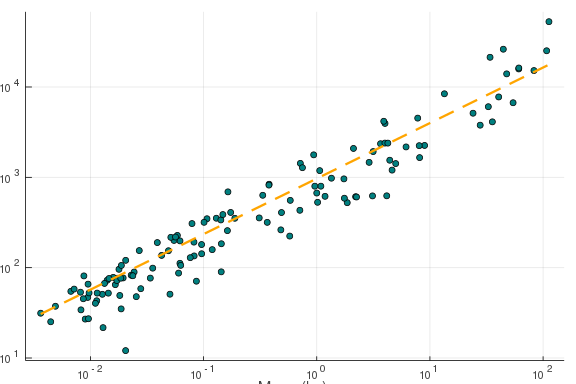
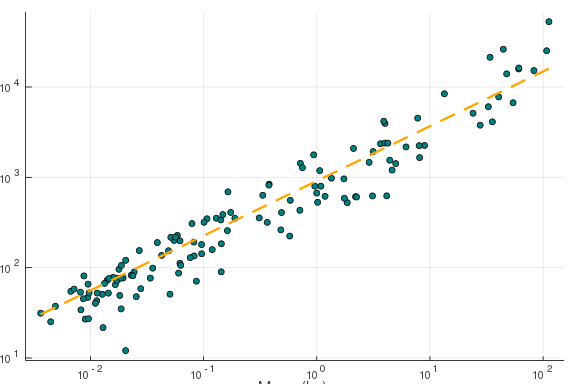
deploy: d7ab3d4cb15ef7e4fce33257fe261094bbebe992

diff --git a/capstones/genetic_algorithm/index.html b/capstones/genetic_algorithm/index.html
@@ -142,7 +142,7 @@ existing object.</p><div class=highlight><pre class=chroma><code class=language-
 <span class=n>initial_genome</span><span class=o></span> <span class=o>=</span> <span class=n>Genome</span><span class=o></span><span class=p>(</span><span class=mf>0.2</span><span class=p>,</span> <span class=mf>0.5</span><span class=p>)</span>
 <span class=n>change_both!</span><span class=o></span><span class=p>(</span><span class=n>initial_genome</span><span class=o></span><span class=p>)</span>
 <span class=n>initial_genome</span><span class=o></span>
-</code></pre></div><pre><code>ŷ = 0.189×x + 0.517
+</code></pre></div><pre><code>ŷ = 0.191×x + 0.521
 </code></pre><p>Let's now define a function to work on the actual problem:</p><div class=highlight><pre class=chroma><code class=language-julia data-lang=julia><span class=n>very_gradual_change!</span><span class=o></span> <span class=o>=</span> <span class=n>normal_error</span><span class=o></span><span class=p>(</span><span class=mf>1e-3</span><span class=p>,</span> <span class=mf>1e-3</span><span class=p>)</span>
 </code></pre></div><pre><code>(::getfield(Main.WeaveSandBox0, Symbol(&quot;#f#4&quot;)){Float64,Float64}) (generic 
 function with 1 method)
@@ -153,26 +153,26 @@ probably draw it from $\mathcal{N}(\mu=3, \sigma=1)$; the slope seems to be
 close to one but a little bit lower, so we can get it from
 $\mathcal{N}(\mu=0.75, \sigma=0.2)$:</p><div class=highlight><pre class=chroma><code class=language-julia data-lang=julia><span class=n>population</span><span class=o></span> <span class=o>=</span> <span class=p>[</span><span class=n>Genome</span><span class=o></span><span class=p>(</span><span class=n>rand</span><span class=o></span><span class=p>(</span><span class=n>Normal</span><span class=o></span><span class=p>(</span><span class=mf>0.75</span><span class=p>,</span><span class=mf>0.2</span><span class=p>)</span><span class=p>)</span><span class=p>,</span> <span class=n>rand</span><span class=o></span><span class=p>(</span><span class=n>Normal</span><span class=o></span><span class=p>(</span><span class=mi>3</span><span class=p>,</span><span class=mi>1</span><span class=p>)</span><span class=p>)</span><span class=p>)</span> <span class=k>for</span> <span class=n>i</span><span class=o></span> <span class=kp>in</span> <span class=mi>1</span><span class=o>:</span><span class=mi>500</span><span class=p>]</span>
 </code></pre></div><pre><code>500-element Array{Main.WeaveSandBox0.Genome,1}:
- ŷ = 0.922×x + 3.618
- ŷ = 0.746×x + 4.682
- ŷ = 0.82×x + 4.244 
- ŷ = 0.775×x + 2.788
- ŷ = 1.067×x + 1.756
- ŷ = 0.877×x + 4.513
- ŷ = 0.742×x + 3.284
- ŷ = 0.767×x + 3.972
- ŷ = 0.885×x + 4.32 
- ŷ = 0.707×x + 3.138
+ ŷ = 0.914×x + 2.788
+ ŷ = 0.769×x + 2.588
+ ŷ = 1.029×x + 2.396
+ ŷ = 0.772×x + 3.589
+ ŷ = 1.063×x + 3.275
+ ŷ = 1.369×x + 2.594
+ ŷ = 0.636×x + 2.777
+ ŷ = 0.68×x + 3.267 
+ ŷ = 0.942×x + 3.515
+ ŷ = 0.576×x + 2.459
  ⋮                   
- ŷ = 0.739×x + 3.133
- ŷ = 0.561×x + 4.071
- ŷ = 0.517×x + 3.837
- ŷ = 1.085×x + 2.781
- ŷ = 0.349×x + 1.317
- ŷ = 0.719×x + 3.196
- ŷ = 0.876×x + 2.077
- ŷ = 0.492×x + 1.959
- ŷ = 0.739×x + 3.416
+ ŷ = 0.473×x + 4.02 
+ ŷ = 0.831×x + 3.14 
+ ŷ = 0.491×x + 4.087
+ ŷ = 0.716×x + 3.735
+ ŷ = 0.79×x + 4.631 
+ ŷ = 0.875×x + 3.573
+ ŷ = 0.833×x + 1.416
+ ŷ = 0.993×x + 3.401
+ ŷ = 0.928×x + 2.903
 </code></pre><div class=highlight><pre class=chroma><code class=language-julia data-lang=julia><span class=n>GA!</span><span class=o></span><span class=p>(</span><span class=n>population</span><span class=o></span><span class=p>,</span> <span class=n>fmr_fitness</span><span class=o></span><span class=p>,</span> <span class=n>very_gradual_change!</span><span class=o></span><span class=p>;</span> <span class=n>generations</span><span class=o></span><span class=o>=</span><span class=mi>10000</span><span class=p>)</span>
 </code></pre></div><p><strong><em>TODO</em></strong></p><div class=highlight><pre class=chroma><code class=language-julia data-lang=julia><span class=n>scatter</span><span class=o></span><span class=p>(</span><span class=mf>10.0</span><span class=o>.^</span><span class=n>rates</span><span class=o></span><span class=p>[</span><span class=o>:</span><span class=n>mass</span><span class=o></span><span class=p>]</span><span class=p>,</span> <span class=mf>10.0</span><span class=o>.^</span><span class=n>rates</span><span class=o></span><span class=p>[</span><span class=o>:</span><span class=n>fmr</span><span class=o></span><span class=p>]</span><span class=p>,</span> <span class=n>c</span><span class=o></span><span class=o>=</span><span class=o>:</span><span class=n>teal</span><span class=o></span><span class=p>,</span> <span class=n>leg</span><span class=o></span><span class=o>=</span><span class=kc>false</span><span class=p>,</span> <span class=n>msc</span><span class=o></span><span class=o>=</span><span class=o>:</span><span class=n>transparent</span><span class=o></span><span class=p>)</span>
 <span class=n>pred</span><span class=o></span> <span class=o>=</span> <span class=n>collect</span><span class=o></span><span class=p>(</span><span class=n>LinRange</span><span class=o></span><span class=p>(</span><span class=mf>10.0</span><span class=o>.^</span><span class=n>minimum</span><span class=o></span><span class=p>(</span><span class=n>rates</span><span class=o></span><span class=p>[</span><span class=o>:</span><span class=n>mass</span><span class=o></span><span class=p>]</span><span class=p>)</span><span class=p>,</span> <span class=mf>10.0</span><span class=o>.^</span><span class=n>maximum</span><span class=o></span><span class=p>(</span><span class=n>rates</span><span class=o></span><span class=p>[</span><span class=o>:</span><span class=n>mass</span><span class=o></span><span class=p>]</span><span class=p>)</span><span class=p>,</span> <span class=mi>100</span><span class=p>)</span><span class=p>)</span>
@@ -180,4 +180,4 @@ $\mathcal{N}(\mu=0.75, \sigma=0.2)$:</p><div class=highlight><pre class=chroma><
 <span class=n>plot!</span><span class=o></span><span class=p>(</span><span class=n>pred</span><span class=o></span><span class=p>,</span> <span class=mf>10.0</span><span class=o>.^</span><span class=n>ŷ</span><span class=o></span><span class=p>(</span><span class=n>population</span><span class=o></span><span class=p>[</span><span class=n>mostfit</span><span class=o></span><span class=p>]</span><span class=p>,</span> <span class=n>log10</span><span class=o></span><span class=o>.</span><span class=p>(</span><span class=n>pred</span><span class=o></span><span class=p>)</span><span class=p>)</span><span class=p>,</span> <span class=n>c</span><span class=o></span><span class=o>=</span><span class=o>:</span><span class=n>orange</span><span class=o></span><span class=p>,</span> <span class=n>lw</span><span class=o></span><span class=o>=</span><span class=mi>2</span><span class=p>,</span> <span class=n>ls</span><span class=o></span><span class=o>=</span><span class=o>:</span><span class=n>dash</span><span class=o></span><span class=p>)</span>
 <span class=n>xaxis!</span><span class=o></span><span class=p>(</span><span class=o>:</span><span class=n>log10</span><span class=o></span><span class=p>,</span> <span class=s>&#34;</span><span class=s>M</span><span class=s>a</span><span class=s>s</span><span class=s>s</span><span class=s> </span><span class=s>(</span><span class=s>k</span><span class=s>g</span><span class=s>)</span><span class=s>&#34;</span><span class=p>)</span>
 <span class=n>yaxis!</span><span class=o></span><span class=p>(</span><span class=o>:</span><span class=n>log10</span><span class=o></span><span class=p>,</span> <span class=s>&#34;</span><span class=s>F</span><span class=s>i</span><span class=s>e</span><span class=s>l</span><span class=s>d</span><span class=s> </span><span class=s>M</span><span class=s>e</span><span class=s>t</span><span class=s>a</span><span class=s>b</span><span class=s>o</span><span class=s>l</span><span class=s>i</span><span class=s>c</span><span class=s> </span><span class=s>R</span><span class=s>a</span><span class=s>t</span><span class=s>e</span><span class=s> </span><span class=s>(</span><span class=s>k</span><span class=s>j</span><span class=s> </span><span class=s>p</span><span class=s>e</span><span class=s>r</span><span class=s> </span><span class=s>d</span><span class=s>a</span><span class=s>y</span><span class=s>)</span><span class=s>&#34;</span><span class=p>)</span>
-</code></pre></div><figure><img src=../figures/genetic_algorithm_19_1.png><figcaption><h4>Relationship between field metabolic rate and mass - this is a neat log-log relationship, and so linear regression will give us the exponent.</h4></figcaption></figure><p>We can also look at the equation for the most fit genome: ŷ = 0.615×x + 2.986.</p></section><script src=/js/ui.js></script><script>mermaid.initialize({startOnLoad:true,theme:"neutral",curve:"basis"});</script></body></html>
+</code></pre></div><figure><img src=../figures/genetic_algorithm_19_1.png><figcaption><h4>Relationship between field metabolic rate and mass - this is a neat log-log relationship, and so linear regression will give us the exponent.</h4></figcaption></figure><p>We can also look at the equation for the most fit genome: ŷ = 0.606×x + 2.96.</p></section><script src=/js/ui.js></script><script>mermaid.initialize({startOnLoad:true,theme:"neutral",curve:"basis"});</script></body></html>

diff --git a/lessons/control_flow/index.html b/lessons/control_flow/index.html
@@ -153,9 +153,9 @@ we will use the far more dignified <em>smol</em> and <em>chonky</em>:</p><div cl
   <span class=k>end</span>
 <span class=k>end</span>
 </code></pre></div><pre><code>smol
+smol
+smol
 chonky
-smol
-smol
 chonky
 </code></pre><p>There is quite a lot happening here, so we will go line by line.</p><div class=highlight><pre class=chroma><code class=language-julia data-lang=julia><span class=n>random_numbers</span><span class=o></span> <span class=o>=</span> <span class=n>rand</span><span class=o></span><span class=p>(</span><span class=mi>5</span><span class=p>)</span>
 </code></pre></div><p>First, we generate 5 random numbers, and put them in a variable called
@@ -183,11 +183,11 @@ truthiness of it, will print either <em>foo</em> or <em>bar</em>.</p><h2 id=navi
 understanding what exactly is in the <code>random_numbers</code> object. Let's display it
 again:</p><div class=highlight><pre class=chroma><code class=language-julia data-lang=julia><span class=n>random_numbers</span><span class=o></span>
 </code></pre></div><pre><code>5-element Array{Float64,1}:
- 0.11244504927765275
- 0.9245314287560671 
- 0.1519490470874334 
- 0.3042596740716268 
- 0.6629487786004558
+ 0.21941483912438509
+ 0.26811854772816623
+ 0.32666645956531193
+ 0.7851504959271904 
+ 0.7370050007196436
 </code></pre><p>This type of object is an <em>array</em>; it may help to think of an array as a shelf,
 in which every compartment can store one thing. You can have shelves with a
 single row, a single column, or both rows and columns. In <em>Julia</em>, arrays are by
@@ -203,31 +203,31 @@ has 5 positions in its first <em>dimension</em>, and no positions in its second
 dimension: this is a column with five rows. We can also access any <em>position</em> we
 like; this is akin to asking &ldquo;computer, give me the content of the 1st
 compartment&rdquo;:</p><div class=highlight><pre class=chroma><code class=language-julia data-lang=julia><span class=n>random_numbers</span><span class=o></span><span class=p>[</span><span class=mi>1</span><span class=p>]</span>
-</code></pre></div><pre><code>0.11244504927765275
+</code></pre></div><pre><code>0.21941483912438509
 </code></pre><p>Some languages, like <em>Julia</em>, <em>R</em>, and <em>MatLab</em>, start counting from 1, but
 <em>python</em> and <em>C</em> start counting from 0. These are conventions that each language
 adopted. Everyone thinks the other camp is wrong, and it's one of these
 surprisingly bitter (considering how utterly unimportant they are) divides in
 the computer science world.</p><p>We can *also ask what the <em>last</em> position contains:</p><div class=highlight><pre class=chroma><code class=language-julia data-lang=julia><span class=n>random_numbers</span><span class=o></span><span class=p>[</span><span class=n>length</span><span class=o></span><span class=p>(</span><span class=n>random_numbers</span><span class=o></span><span class=p>)</span><span class=p>]</span>
-</code></pre></div><pre><code>0.6629487786004558
+</code></pre></div><pre><code>0.7370050007196436
 </code></pre><p>The way to read this instruction is as follows: get me the element at position
 <code>length(random_numbers)</code>. We know that the length of <code>random_numbers</code> is <code>5</code>, so
 this will return the 5th position. <em>Julia</em> has a quite pretty way of getting the
 last element of most collections:</p><div class=highlight><pre class=chroma><code class=language-julia data-lang=julia><span class=n>random_numbers</span><span class=o></span><span class=p>[</span><span class=k>end</span><span class=p>]</span>
-</code></pre></div><pre><code>0.6629487786004558
+</code></pre></div><pre><code>0.7370050007196436
 </code></pre><p>An extra bit of <a href=https://en.wikipedia.org/wiki/Syntactic_sugar>syntactic sugar</a> in <em>Julia</em> are the two following
 functions:</p><div class=highlight><pre class=chroma><code class=language-julia data-lang=julia><span class=n>first</span><span class=o></span><span class=p>(</span><span class=n>random_numbers</span><span class=o></span><span class=p>)</span>
-</code></pre></div><pre><code>0.11244504927765275
+</code></pre></div><pre><code>0.21941483912438509
 </code></pre><div class=highlight><pre class=chroma><code class=language-julia data-lang=julia><span class=n>last</span><span class=o></span><span class=p>(</span><span class=n>random_numbers</span><span class=o></span><span class=p>)</span>
-</code></pre></div><pre><code>0.6629487786004558
+</code></pre></div><pre><code>0.7370050007196436
 </code></pre><p>Being able to access elements by their position can be very useful. Our
 <code>random_numbers</code> array has five elements, and we only want to print the
 odd-numbered ones. One way to do this would be to call then individually:</p><div class=highlight><pre class=chroma><code class=language-julia data-lang=julia><span class=n>println</span><span class=o></span><span class=p>(</span><span class=n>random_numbers</span><span class=o></span><span class=p>[</span><span class=mi>1</span><span class=p>]</span><span class=p>)</span>
-</code></pre></div><pre><code>0.11244504927765275
+</code></pre></div><pre><code>0.21941483912438509
 </code></pre><div class=highlight><pre class=chroma><code class=language-julia data-lang=julia><span class=n>println</span><span class=o></span><span class=p>(</span><span class=n>random_numbers</span><span class=o></span><span class=p>[</span><span class=mi>3</span><span class=p>]</span><span class=p>)</span>
-</code></pre></div><pre><code>0.1519490470874334
+</code></pre></div><pre><code>0.32666645956531193
 </code></pre><div class=highlight><pre class=chroma><code class=language-julia data-lang=julia><span class=n>println</span><span class=o></span><span class=p>(</span><span class=n>random_numbers</span><span class=o></span><span class=p>[</span><span class=mi>5</span><span class=p>]</span><span class=p>)</span>
-</code></pre></div><pre><code>0.6629487786004558
+</code></pre></div><pre><code>0.7370050007196436
 </code></pre><p>Of course, this is only reasonable if we have a very small number of things to
 do. But what if we want to iterate over hundreds, or thousands of values? We
 need a more efficient strategy.</p><h2 id=iterating-over-values>Iterating over values</h2><p>We know that a number is even if the statement <code>x % 2 == 0</code>, where <code>%</code> is
@@ -237,9 +237,9 @@ integer division by two is <em>not</em> 0: <code>x % 2 != 0</code>.</p><p>Let's 
     <span class=n>println</span><span class=o></span><span class=p>(</span><span class=s>&#34;</span><span class=s>P</span><span class=s>o</span><span class=s>s</span><span class=s>i</span><span class=s>t</span><span class=s>i</span><span class=s>o</span><span class=s>n</span><span class=s> </span><span class=si>$i</span><span class=s>:</span><span class=se>\t</span><span class=s>&#34;</span><span class=p>,</span> <span class=n>random_numbers</span><span class=o></span><span class=p>[</span><span class=n>i</span><span class=o></span><span class=p>]</span><span class=p>)</span>
   <span class=k>end</span>
 <span class=k>end</span>
-</code></pre></div><pre><code>Position 1:	0.11244504927765275
-Position 3:	0.1519490470874334
-Position 5:	0.6629487786004558
+</code></pre></div><pre><code>Position 1:	0.21941483912438509
+Position 3:	0.32666645956531193
+Position 5:	0.7370050007196436
 </code></pre><p>We can &ldquo;read&rdquo; this snippet (a <em>snippet</em> is the affectionate name given to a
 litle chunk of code; a <em>chunk</em> is a much uglier name for &ldquo;a piece&rdquo;) as</p><pre><code>there is a variable i
 it will take every value between 1 and the length of the ranom_numbers array
@@ -300,7 +300,7 @@ run it for a while (<em>GET IT?</em>) to get a sample with an average of about 0
 <span class=k>end</span>
 
 <span class=n>println</span><span class=o></span><span class=p>(</span><span class=s>&#34;</span><span class=s>μ</span><span class=s>:</span><span class=s> </span><span class=si>$</span><span class=p>(</span><span class=n>round</span><span class=o></span><span class=p>(</span><span class=n>mean</span><span class=o></span><span class=p>(</span><span class=n>my_collection</span><span class=o></span><span class=p>)</span><span class=p>;</span> <span class=n>digits</span><span class=o></span><span class=o>=</span><span class=mi>4</span><span class=p>)</span><span class=p>)</span><span class=s>&#34;</span><span class=p>)</span>
-</code></pre></div><pre><code>μ: 0.4992
+</code></pre></div><pre><code>μ: 0.5009
 </code></pre><p>The instruction just after <code>while</code>, <em>i.e.</em></p><pre><code>!(0.499 ≤ mean(my_collection) ≤ 0.501)
 </code></pre><p>is worth thinking about. It is a very compact way of running multiple tests at
 once: the mean needs to be larger than 0.499, yet smaller than 0.501, and we

diff --git a/lessons/writing_functions/index.html b/lessons/writing_functions/index.html
@@ -30,16 +30,16 @@ $(0,2)$ will be save us almost four keystrokes!</p><p>After the following lesson
 <span class=k>end</span>
 <span class=n>darts</span><span class=o></span>
 </code></pre></div><pre><code>10-element Array{Any,1}:
- (0.04234885896087537, 1.1175846143463306)
- (0.11452400049459976, 1.454870002320439) 
- (1.7414762284281404, 1.8958496297655123) 
- (1.697878402235089, 0.9093639385882284)  
- (1.1620380439771907, 1.7336274832201952) 
- (1.733600468679422, 0.24520703184410575) 
- (1.8444824417137529, 0.1735424808735253) 
- (0.8571963316115689, 1.9119144392475729) 
- (1.1717686430948553, 1.2237063616562378) 
- (1.89730676456464, 0.3195923675895389)
+ (0.6920014547183828, 1.2967816900293716) 
+ (0.31599057350412485, 1.468033843850197) 
+ (1.0519911021564887, 0.40790735825965196)
+ (1.7664044588184518, 0.9989588734808872) 
+ (1.5266255095243646, 0.33932125573472316)
+ (1.0776262724356518, 1.6359481124251372) 
+ (0.8069875900548276, 0.6398253353443728) 
+ (1.6103107566679875, 0.5403083368105537) 
+ (0.2258775624352074, 1.443125429003644)  
+ (0.3015120813331298, 0.9515444807154823)
 </code></pre><p>This introduces a few new notations. The <code>darts = []</code> instruction creates an
 <em>empty</em> array. This is not the optimal way of approaching this problem, but
 remember the UNIX philosophy: we'll rewrite this awkard part later. Then we use
@@ -210,7 +210,7 @@ screens to see what the function does). Because we have named our functions
 explicitely, the code is also easy to understand. In the next lesson, we will
 see that modular code is easy to <em>test</em> (and to debug).</p><p>So, how good is our estimate?</p><div class=highlight><pre class=chroma><code class=language-julia data-lang=julia><span class=n>estimate</span><span class=o></span> <span class=o>=</span> <span class=n>estimate_pi</span><span class=o></span><span class=p>(</span><span class=mi>100000</span><span class=p>)</span>
 <span class=n>println</span><span class=o></span><span class=p>(</span><span class=s>&#34;</span><span class=s>E</span><span class=s>s</span><span class=s>t</span><span class=s>i</span><span class=s>m</span><span class=s>a</span><span class=s>t</span><span class=s>e</span><span class=s>:</span><span class=s> </span><span class=si>$</span><span class=p>(</span><span class=n>estimate</span><span class=o></span><span class=p>)</span><span class=se>\t</span><span class=se>\t</span><span class=s>π</span><span class=s>:</span><span class=s> </span><span class=si>$</span><span class=p>(</span><span class=nb>π</span><span class=o>+</span><span class=mi>0</span><span class=p>)</span><span class=s>&#34;</span><span class=p>)</span>
-</code></pre></div><pre><code>Estimate: 3.13168		π: 3.141592653589793
+</code></pre></div><pre><code>Estimate: 3.13148		π: 3.141592653589793
 </code></pre><h2 id=keyword-arguments-and-default-values>Keyword arguments and default values</h2><p>In all functions thus far, we <em>had</em> to give all the values of all arguments.
 Sometimes, it make sense to have some arguments take a default value, which we
 can change when we need to, but will remain constant otherwise.</p><div class="callout warning">Giving default values can save some time, but it means you don't need to <em>think</em>
@@ -253,7 +253,7 @@ longer than if I has asked you what the sum of 0.0 and 1.0 is. Is it true for
 the computer?</p><div class=highlight><pre class=chroma><code class=language-julia data-lang=julia><span class=n>time_int_and_float</span><span class=o></span> <span class=o>=</span> <span class=nd>@elapsed</span><span class=o></span> <span class=mi>0</span> <span class=o>+</span> <span class=mf>1.0</span>
 <span class=n>time_float_and_float</span><span class=o></span> <span class=o>=</span> <span class=nd>@elapsed</span><span class=o></span> <span class=mf>0.0</span> <span class=o>+</span> <span class=mf>1.0</span>
 <span class=n>println</span><span class=o></span><span class=p>(</span><span class=s>&#34;</span><span class=s>I</span><span class=s>t</span><span class=s> </span><span class=s>t</span><span class=s>a</span><span class=s>k</span><span class=s>e</span><span class=s>s</span><span class=s> </span><span class=si>$</span><span class=p>(</span><span class=n>round</span><span class=o></span><span class=p>(</span><span class=n>time_int_and_float</span><span class=o></span><span class=o>/</span><span class=n>time_float_and_float</span><span class=o></span><span class=p>;</span> <span class=n>digits</span><span class=o></span><span class=o>=</span><span class=mi>2</span><span class=p>)</span><span class=p>)</span><span class=s> </span><span class=s>t</span><span class=s>i</span><span class=s>m</span><span class=s>e</span><span class=s>s</span><span class=s> </span><span class=s>l</span><span class=s>o</span><span class=s>n</span><span class=s>g</span><span class=s>e</span><span class=s>r</span><span class=s> </span><span class=s>t</span><span class=s>o</span><span class=s> </span><span class=s>w</span><span class=s>o</span><span class=s>r</span><span class=s>k</span><span class=s> </span><span class=s>w</span><span class=s>i</span><span class=s>t</span><span class=s>h</span><span class=s> </span><span class=s>d</span><span class=s>i</span><span class=s>f</span><span class=s>f</span><span class=s>e</span><span class=s>r</span><span class=s>e</span><span class=s>n</span><span class=s>t</span><span class=s> </span><span class=s>t</span><span class=s>y</span><span class=s>p</span><span class=s>e</span><span class=s>s</span><span class=s>!</span><span class=s>&#34;</span><span class=p>)</span>
-</code></pre></div><pre><code>It takes 0.7 times longer to work with different types!
+</code></pre></div><pre><code>It takes 1.07 times longer to work with different types!
 </code></pre><p>The exact number may vary, but on my machine, it takes about 1.5 times longer to
 do the operation with different types. Why is that?</p><p>It is because the computer needs to &ldquo;rethink&rdquo; about one of these numbers (<em>i.e.</em>
 to change <code>0</code> in <code>0.0</code>, or <code>1.0</code> in <code>1</code>), before it can do the actual operation.

diff --git a/capstones/abc/index.html b/capstones/abc/index.html
@@ -11,15 +11,15 @@ the previous article (and the references it links to) is highly recommended.</p>
 diameter, in the Florida keys. On this island is a single shrub, and on this
 single shrub an insect can live. Every year, for 20 years, a few biologists comb
 through the shrub, to figure out whether or not the insect is present or absent.
-This results in a timeseries, like this:</p><pre><code>Year 1	absent
-Year 2	present
-Year 3	absent
-Year 4	present
-Year 5	present
-Year 6	present
+This results in a timeseries, like this:</p><pre><code>Year 1	present
+Year 2	absent
+Year 3	present
+Year 4	absent
+Year 5	absent
+Year 6	absent
 Year 7	absent
-Year 8	absent
-Year 9	absent
+Year 8	present
+Year 9	present
 Year 10	absent
 </code></pre><p>To begin with, let us see how we can model the presence/absence of this species.
 We will make two assumptions. First, the biological process here can be
@@ -140,8 +140,8 @@ with parameters $(e=0.2, c=0.6, m=0.1)$, and get the summary statistics:</p><div
    <span class=p>[</span><span class=n>occupancy</span><span class=o></span><span class=p>,</span> <span class=n>transitions</span><span class=o></span><span class=p>]</span> <span class=c># list of things to measure</span>
    <span class=p>)</span>
 </code></pre></div><pre><code>2-element Array{Float64,1}:
- 0.68               
- 0.32663316582914576
+ 0.735              
+ 0.35175879396984927
 </code></pre><p>At this point, we need empirical data to feed the model. Let's say that over
 twenty years, the species has been observed from year 4 to 12, then 14 to 15,
 and finally from year 17 to 20. We can write this as:</p><div class=highlight><pre class=chroma><code class=language-julia data-lang=julia><span class=n>empirical_data</span><span class=o></span> <span class=o>=</span> <span class=n>zeros</span><span class=o></span><span class=p>(</span><span class=kt>Bool</span><span class=p>,</span> <span class=mi>20</span><span class=p>)</span>
@@ -224,7 +224,7 @@ programming exercise, this will be a good opportunity to practice writing
 
 <span class=n>xaxis!</span><span class=o></span><span class=p>(</span><span class=s>&#34;</span><span class=s>P</span><span class=s>a</span><span class=s>r</span><span class=s>a</span><span class=s>m</span><span class=s>e</span><span class=s>t</span><span class=s>e</span><span class=s>r</span><span class=s> </span><span class=s>v</span><span class=s>a</span><span class=s>l</span><span class=s>u</span><span class=s>e</span><span class=s>&#34;</span><span class=p>,</span> <span class=p>(</span><span class=mi>0</span><span class=p>,</span><span class=mi>1</span><span class=p>)</span><span class=p>)</span>
 <span class=n>yaxis!</span><span class=o></span><span class=p>(</span><span class=s>&#34;</span><span class=s>D</span><span class=s>e</span><span class=s>n</span><span class=s>s</span><span class=s>i</span><span class=s>t</span><span class=s>y</span><span class=s>&#34;</span><span class=p>,</span> <span class=p>(</span><span class=mi>0</span><span class=p>,</span> <span class=mi>14</span><span class=p>)</span><span class=p>)</span>
-</code></pre></div><figure><img src=../figures/abc_15_1.png><figcaption><h4>Posterior distributions (shaded) and the corresponding priors (dashed) for the three parameters in the model.</h4></figcaption></figure><p>To summarize, we can now extract the values of the different parameters:</p><table><thead><tr><th align=center></th><th align=left>meaning</th><th align=right>mean</th><th align=right>standard deviation</th></tr></thead><tbody><tr><td align=center>$c$</td><td align=left>Colonization rate</td><td align=right>0.552</td><td align=right>0.066</td></tr><tr><td align=center>$e$</td><td align=left>Extinction rate</td><td align=right>0.154</td><td align=right>0.042</td></tr><tr><td align=center>$m$</td><td align=left>Measurement error rate</td><td align=right>0.051</td><td align=right>0.038</td></tr></tbody></table><p>Done! One of the strength of ABC is that we can now <em>generate</em> datasets, using
+</code></pre></div><figure><img src=../figures/abc_15_1.png><figcaption><h4>Posterior distributions (shaded) and the corresponding priors (dashed) for the three parameters in the model.</h4></figcaption></figure><p>To summarize, we can now extract the values of the different parameters:</p><table><thead><tr><th align=center></th><th align=left>meaning</th><th align=right>mean</th><th align=right>standard deviation</th></tr></thead><tbody><tr><td align=center>$c$</td><td align=left>Colonization rate</td><td align=right>0.558</td><td align=right>0.066</td></tr><tr><td align=center>$e$</td><td align=left>Extinction rate</td><td align=right>0.153</td><td align=right>0.042</td></tr><tr><td align=center>$m$</td><td align=left>Measurement error rate</td><td align=right>0.052</td><td align=right>0.04</td></tr></tbody></table><p>Done! One of the strength of ABC is that we can now <em>generate</em> datasets, using
 our original model for simulation. And because we know the measurement error
 rate, we can also correct these datasets to describe the data <em>generation</em>
 process (the actual presence/absence of the species) as opposed to the data

diff --git a/capstones/index.html b/capstones/index.html
@@ -1,10 +1,12 @@
 <!doctype html><html><head><link rel=stylesheet href=https://use.fontawesome.com/releases/v5.6.1/css/all.css integrity=sha384-gfdkjb5BdAXd+lj+gudLWI+BXq4IuLW5IT+brZEZsLFm++aCMlF1V92rMkPaX4PP crossorigin=anonymous><link rel=stylesheet href=//cdn.jsdelivr.net/npm/hack-font@3.3.0/build/web/hack.css><script src=https://cdnjs.cloudflare.com/ajax/libs/mermaid/8.0.0/mermaid.js></script><link rel=stylesheet href=/css/normalize.css><link rel=stylesheet href=/css/configuration.css><link rel=stylesheet href=/css/index.css><meta charset=utf-8><link rel=stylesheet href=https://cdn.jsdelivr.net/npm/katex@0.10.0-rc.1/dist/katex.min.css integrity=sha384-D+9gmBxUQogRLqvARvNLmA9hS2x//eK1FhVb9PiU86gmcrBrJAQT8okdJ4LMp2uv crossorigin=anonymous><script defer src=https://cdn.jsdelivr.net/npm/katex@0.10.0-rc.1/dist/katex.min.js integrity=sha384-483A6DwYfKeDa0Q52fJmxFXkcPCFfnXMoXblOkJ4JcA8zATN6Tm78UNL72AKk+0O crossorigin=anonymous></script><script defer src=https://cdn.jsdelivr.net/npm/katex@0.10.0-rc.1/dist/contrib/auto-render.min.js integrity=sha384-yACMu8JWxKzSp/C1YV86pzGiQ/l1YUfE8oPuahJQxzehAjEt2GiQuy/BIvl9KyeF crossorigin=anonymous></script><script>document.addEventListener("DOMContentLoaded",function(){renderMathInElement(document.body,{delimiters:[{left:"$$",right:"$$",display:true},{left:"$",right:"$",display:false}]});});</script><title>Capstone lessons · Scientific computing</title></head><body><nav id=main class=sidebar><div class=toggle><a class=button><svg xmlns="http://www.w3.org/2000/svg" viewBox="0 0 100 100"><line x1="0" y1="20" x2="100" y2="20" /><line x1="0" y1="50" x2="100" y2="50" /><line x1="0" y1="80" x2="100" y2="80" /></svg></a></div><div class=header><h1><a href=/>Scientific computing</a></h1><h2>(for the rest of us)</h2></div><ul class=nav><li class=lessons><i class="fas fa-fw fa-book-open"></i><a class=sidebar-nav-item href=/lessons/>Lessons</a></li><li class=primers><i class="fas fa-fw fa-bolt"></i><a class=sidebar-nav-item href=/primers/>Primers</a></li><li class=capstones><i class="fas fa-fw fa-star"></i><a class="sidebar-nav-item active" href=/capstones/>Capstones</a></li><li class=ml><i class="fas fa-fw fa-brain"></i><a class=sidebar-nav-item href=/machinelearning/>Machine Learning</a></li><li class=main><i class="fas fa-fw fa-pen"></i><a class=sidebar-nav-item href=https://github.com/tpoisot/ScientificComputingForTheRestOfUs>Contribute!</a></li></ul></nav><section id=content><section class=introduction><h1 id=capstone-lessons>Capstone lessons</h1><p>The goal of these lessons is to see how the concepts covered in the <a href=/lessons>main
-lessons</a> can be integrated. It is recommended to go through them
-<em>after</em> having done the lessons. Capstones are designed to be shorter, and will
-present some real-life applications of the principles covered in the main
-lessons.</p><p>Capstone lessons present more advanced material, which may take a bit longer to
+lessons</a> can be integrated. It is recommended to go through the
+capstones <em>after</em> having done the lessons. Capstones are designed to be shorter,
+and will present some real-life applications of the principles covered in the
+main lessons.</p><p>Capstone lessons present more advanced material, which may take a bit longer to
 grasp. We encourage you to try them one at a time, and to come back to them over
-the course of a few days.</p></section><section class=resource><h1><a href=http://sciencecomputing.io/capstones/abc/ class=lessonlink>Approximate Bayesian Computation</a></h1><div class="readingtime listicle"><i class="fas fa-stopwatch fa-fw"></i><b>Reading time:</b> 18 minutes</div><div class="contributors listicle"><i class="far fa-user-circle"></i><b>Contributors:</b>
+the course of a few days. We also encourage you to adapt the capstones to your
+own problems, and to see if they can adapted to your own data. This will be a
+frustrating process, to be sure, but you will learn a lot!</p></section><section class=resource><h1><a href=http://sciencecomputing.io/capstones/abc/ class=lessonlink>Approximate Bayesian Computation</a></h1><div class="readingtime listicle"><i class="fas fa-stopwatch fa-fw"></i><b>Reading time:</b> 18 minutes</div><div class="contributors listicle"><i class="far fa-user-circle"></i><b>Contributors:</b>
 <span class=contributor><a href=http://github.com/tpoisot/ target=_blank>Timothée Poisot</a></span></div><div class="keywords listicle"><i class="fas fa-tags fa-fw"></i><b>Key concepts:</b>
 <span class="keyword listicleitem">arrays</span>
 <span class="keyword listicleitem">control flow</span>

diff --git a/primers/advanced_control_flow/index.html b/primers/advanced_control_flow/index.html
@@ -32,14 +32,15 @@ smaller than 1/3:</p><div class=highlight><pre class=chroma><code class=language
   <span class=n>r</span><span class=o></span> <span class=o>≥</span> <span class=mi>1</span><span class=o>/</span><span class=mi>3</span> <span class=o>||</span> <span class=k>continue</span>
   <span class=n>println</span><span class=o></span><span class=p>(</span><span class=n>round</span><span class=o></span><span class=p>(</span><span class=n>r</span><span class=o></span><span class=p>;</span> <span class=n>digits</span><span class=o></span><span class=o>=</span><span class=mi>2</span><span class=p>)</span><span class=p>)</span>
 <span class=k>end</span>
-</code></pre></div><pre><code>0.49
-0.34
-0.64
-0.76
-0.68
-0.39
+</code></pre></div><pre><code>0.69
+0.62
+0.5
+0.96
+1.0
+0.69
+0.97
 0.85
-0.7
+0.82
 </code></pre><p>In short, <code>continue</code> will <em>skip ahead</em> to the next element in the iteration.
 This can be very important to avoid performing operations on objects that are
 not relevant.</p></section><script src=/js/ui.js></script><script>mermaid.initialize({startOnLoad:true,theme:"neutral",curve:"basis"});</script></body></html>
